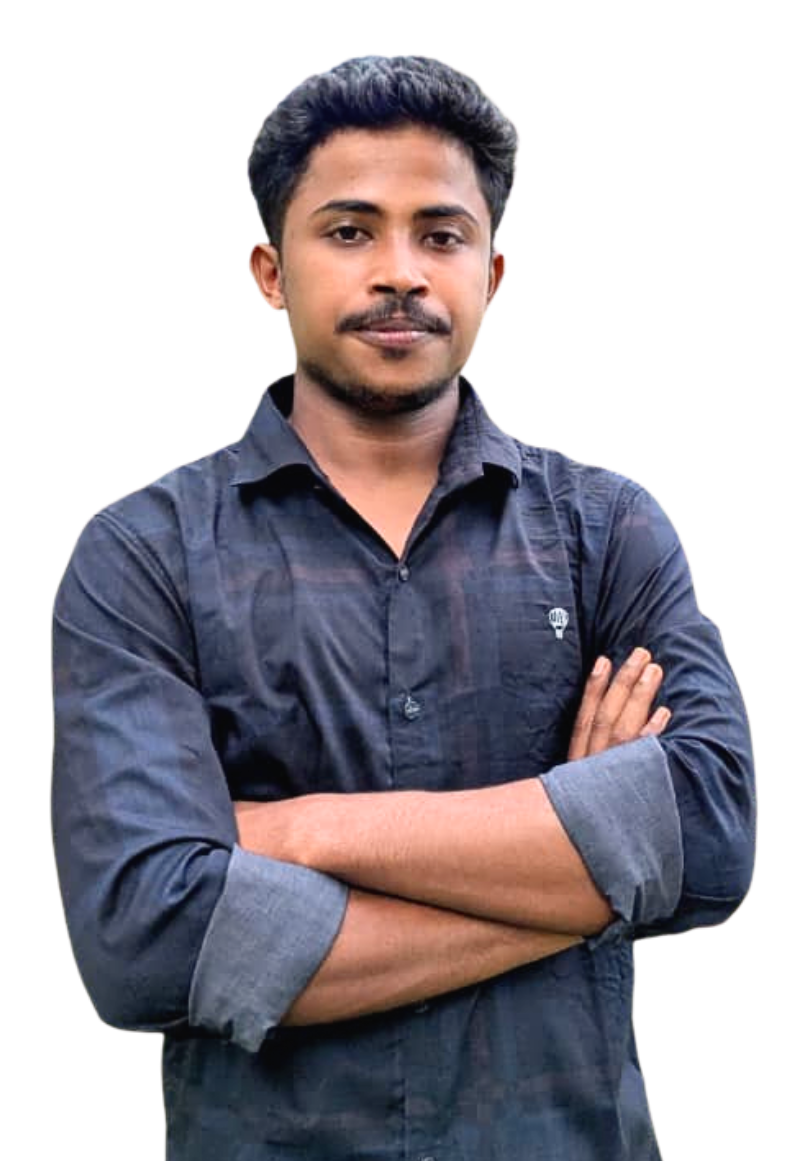
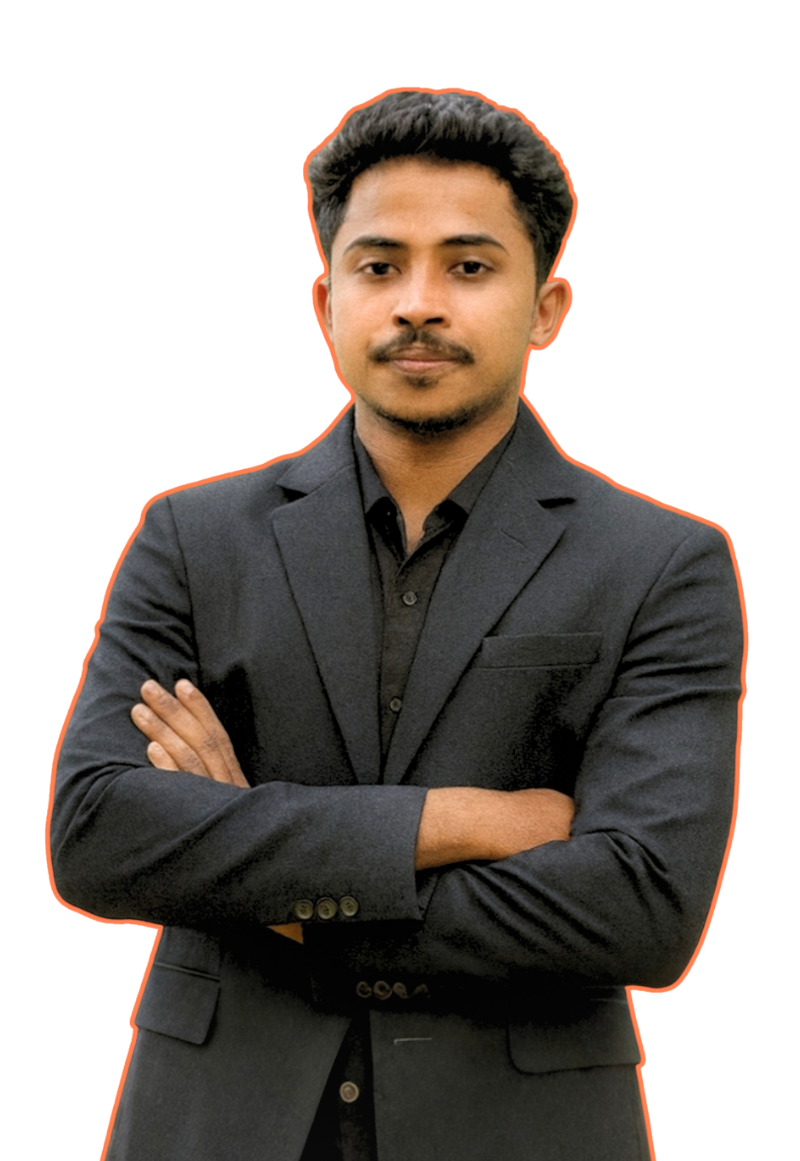
Shakil

diff --git a/jquery/app.js b/jquery/app.js
@@ -1,9 +1,9 @@
 $(document).ready(function () {
-    var colors = ['#000000ff', '#000000ff']; // Colors for each string
+    var colors = ['#ff6b08ff', '#be4600ff']; // Colors for each string
     var currentIndex = 0;
 
     var typed = new Typed('#element', {
-        strings: ['Digital Marketer', 'Social Media Marketing Expert', 'Search Engine Marketing Expert', 'Shopify Expert'],
+        strings: ['Digital Marketer', 'Social Media Marketing Expert', 'Search Engine Marketing Expert', 'Web Analytics Expert', 'Shopify Expert'],
         typeSpeed: 50,
         backSpeed: 25,
         loop: true,
@@ -207,25 +207,25 @@ $(document).ready(function () {
 });
 
 
-$(document).ready(function () {
-    function reorderContent() {
-        if ($(window).width() < 576) {
-            // যদি phone screen হয়, তাহলে text div কে image div এর নিচে পাঠানো হবে
-            $('.tilt-in-left-1').insertBefore('.image-content2');
-        } else {
-            // বড় screen হলে আবার আগের অবস্থায় নিয়ে যাবে
-            $('.image-content2').insertBefore('.tilt-in-left-1');
-        }
-    }
+// $(document).ready(function () {
+//     function reorderContent() {
+//         if ($(window).width() < 576) {
+//             // যদি phone screen হয়, তাহলে text div কে image div এর নিচে পাঠানো হবে
+//             $('.tilt-in-left-1').insertBefore('.image-content2');
+//         } else {
+//             // বড় screen হলে আবার আগের অবস্থায় নিয়ে যাবে
+//             $('.image-content2').insertBefore('.tilt-in-left-1');
+//         }
+//     }
 
-    // প্রথমবার রান করাবে
-    reorderContent();
+//     // প্রথমবার রান করাবে
+//     reorderContent();
 
-    // resize হলে চেক করবে
-    $(window).resize(function () {
-        reorderContent();
-    });
-});
+//     // resize হলে চেক করবে
+//     $(window).resize(function () {
+//         reorderContent();
+//     });
+// });
 
 
 

diff --git a/index.html b/index.html
@@ -65,9 +65,6 @@
   <section class="container-sm px-4 mt-4">
     <div class="row d-flex align-items-center text-center text-sm-start rounded-3"
       style="background: linear-gradient(95deg,#e7edf0 0%, #b1d5e0 100%); box-shadow: #3c40434d 0px 1px 2px 0px,#f85606 0px 1px 3px 1px; border: 2px solid black;">
-      <div class="col-6 col-md-4 image-content2 text-center slide-in-blurred-right">
-        <img src="img/SHAKIL.png" alt="shakil-img">
-      </div>
       <div class="col-sm-6 col-md-8 tilt-in-left-1">
         <h1 class="name-color mt-2 d-block d-sm-none">Hi! I Am <br> <span style="color: black;">Rifat Hazari</span></h1>
         <h1 class="name-color mt-2 d-none d-sm-block">Hi! I Am <span style="color: black;">Rifat Hazari</span></h1>
@@ -82,6 +79,9 @@
         </p>
         <a href="https://wa.me/+8801865190264" class="button-color btn rounded-5 " target="_blank">Contact Me <i
             class="bi bi-arrow-right-circle "></i></a>
+      </div>
+      <div class="col-6 col-md-4 image-content2 text-center slide-in-blurred-right">
+        <img src="img/SHAKIL.png" alt="shakil-img">
       </div>
     </div>
   </section>
@@ -769,7 +769,7 @@
                 data-aos-delay="400">
                 <i class="bi bi-envelope"></i>
                 <h3>Email Us</h3>
-                <p class="h6">Rifat [email redacted]
+                <p class="h6">[email redacted]
                 </p>
               </div>
             </div><!-- End Info Item -->
@@ -853,7 +853,7 @@
         </div>
       </div>
       <div class="text-center mt-2">
-        <p class="mb-0">Shakil Ahmed © 2025. All rights reserved.</p>
+        <p class="mb-0">Rifat Hazari © 2025. All rights reserved.</p>
       </div>
     </div>
   </footer>

diff --git a/css/marketing.css b/css/marketing.css
@@ -20,10 +20,10 @@ h4{
   padding-top: 10px;
   box-shadow:
    #3c40434d 0px 1px 2px 0px,
-    #ff3030 0px 1px 3px 1px;
+    #f85606 0px 1px 3px 1px;
   position: relative;
   cursor: pointer;
-  color: #ff3030;
+  color: #f85606;
   font-weight: bold;
 }
 
@@ -90,7 +90,7 @@ h4{
   padding: 10px 5px;
   box-shadow:
    #3c40434d 0px 1px 2px 0px,
-    #ff3030 0px 1px 3px 1px;
+    #f85606 0px 1px 3px 1px;
   position: relative;
   cursor: pointer;
 }
@@ -133,7 +133,7 @@ h4{
 h4{
   font-weight: 800;
   text-align: center;
-  color: red !important;
+  color: #f85606 !important;
   padding-top: 10px;
   font-size: 14px;
 }

diff --git a/searchengine.html b/searchengine.html
@@ -654,7 +654,7 @@
         </div>
       </div>
       <div class="text-center mt-2">
-        <p class="mb-0">Shakil Ahmed © 2025. All rights reserved.</p>
+        <p class="mb-0">Rifat Hazari © 2025. All rights reserved.</p>
       </div>
     </div>
   </footer>

diff --git a/shopify.html b/shopify.html
@@ -621,7 +621,7 @@
         </div>
       </div>
       <div class="text-center mt-2">
-        <p class="mb-0">Shakil Ahmed© 2025. All rights reserved.</p>
+        <p class="mb-0">Rifat Hazari © 2025. All rights reserved.</p>
       </div>
     </div>
   </footer>

diff --git a/socialmedia.html b/socialmedia.html
@@ -693,7 +693,7 @@
         </div>
       </div>
       <div class="text-center mt-2">
-        <p class="mb-0">Shakil Ahemd © 2025. All rights reserved.</p>
+        <p class="mb-0">Rifat Hazari © 2025. All rights reserved.</p>
       </div>
     </div>
   </footer>

diff --git a/strategy.html b/strategy.html
@@ -650,7 +650,7 @@
         </div>
       </div>
       <div class="text-center mt-2">
-        <p class="mb-0">Shakil Ahmed © 2025. All rights reserved.</p>
+        <p class="mb-0">Rifat Hazari © 2025. All rights reserved.</p>
       </div>
     </div>
   </footer>

diff --git a/webanalytics.html b/webanalytics.html
@@ -621,7 +621,7 @@
         </div>
       </div>
       <div class="text-center mt-2">
-        <p class="mb-0">Mijanur Rahman © 2025. All rights reserved.</p>
+        <p class="mb-0">Rifat Hazari © 2025. All rights reserved.</p>
       </div>
     </div>
   </footer>